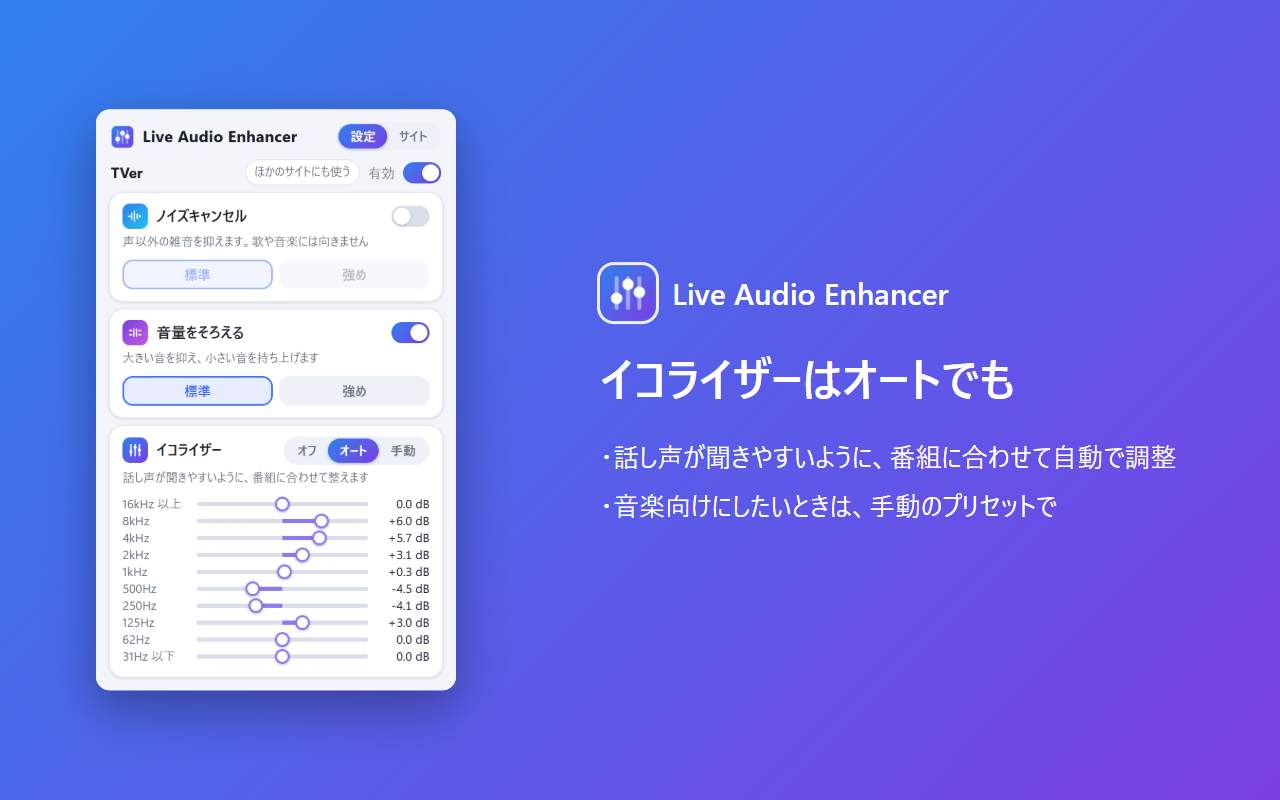
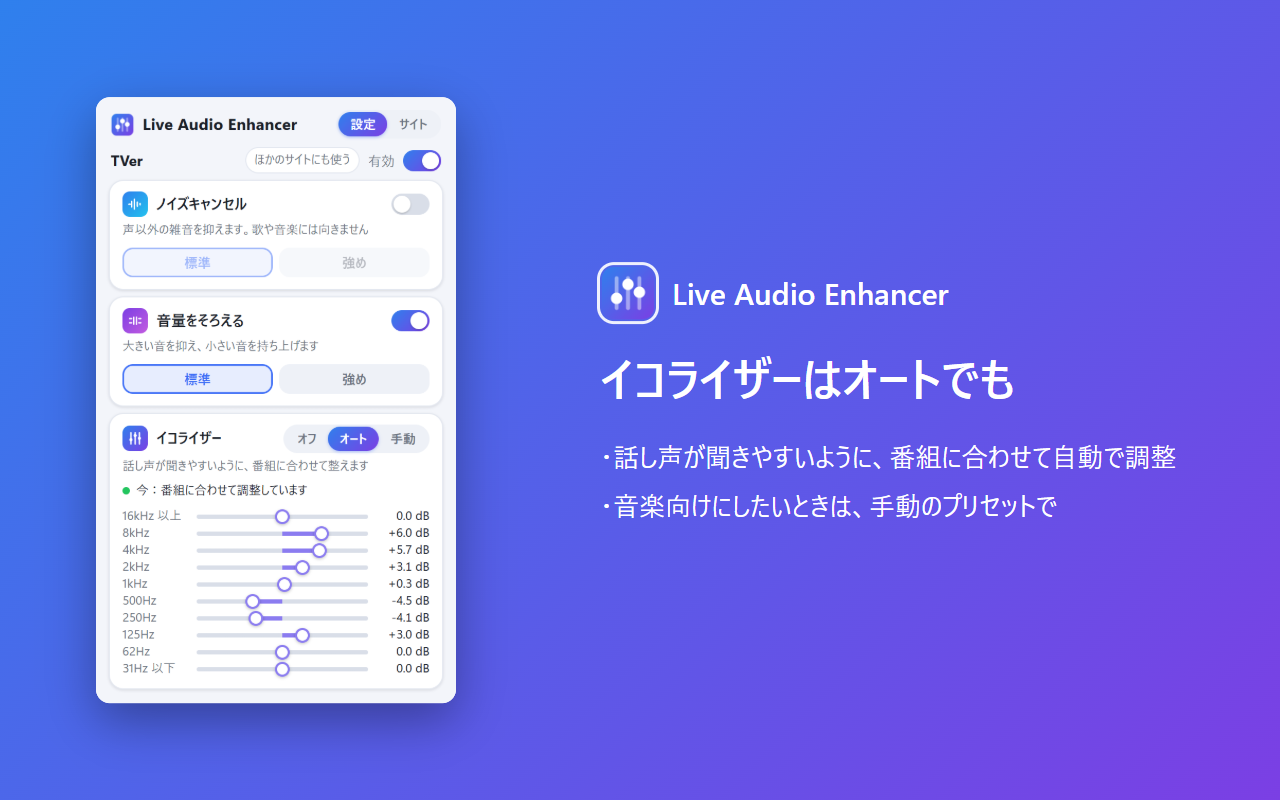
イコライザーのオートの状態を、利用者にも表示する（v0.26.1）
オートEQ は音が 5 秒ぶんたまるまで補正しないので、表示がないと動いていないように見えた。
「今：番組の音を分析しています（数秒かかります）」「今：番組に合わせて調整しています」を、利用者にも出す。
v0.23.0 から開発中だけにしていたのは、ノイズキャンセルのオートの判定の誤りを見せないためで、そのオートはなくなった。
開発中かどうかを見分けるしくみ（management.getSelf）は使わなくなったので取り除く。

Changed region(s): [[0.0625, 0.0938, 0.375, 0.9062], [0.2812, 0.375, 0.3438, 0.4375]]

diff --git a/tools/amo-screenshots.js b/tools/amo-screenshots.js
@@ -1,7 +1,7 @@
 // ストア（AMO）に載せるスクリーンショット（1280×800）を作る。docs/amo/screenshots/ に保存する。
 // 実際のポップアップの画面（extension/popup/popup.html）を開き、左にポップアップ、右に説明を並べて撮る。
 // オートEQ の画面は、配信につないだときの補正量（Twitch の雑談で実際に出た値）を再現して撮る。
-// ここでは開発中の拡張として読み込むので、オートの状態（「今：〜」）が出る。利用者には出ないので、消してから撮る。
+// ポップアップの画面はタブで開くので、オートEQ の状態は「このタブでは使えません」になる。配信につないだときの表示に書き換えて撮る。
 //
 // 使い方:
 //   npm run amo:screenshots
@@ -62,11 +62,12 @@ try {
     await popup.reload();
     await popup.waitForSelector('.band input');
     await new Promise((r) => setTimeout(r, 1500));
-    // 利用者の画面に合わせて、オートの状態（開発中の拡張でだけ出る）を消す
-    await popup.evaluate(() => document.querySelectorAll('.status').forEach((note) => note.remove()));
     if (shot.view === 'sites') await popup.click('#tabSites');
     if (shot.autoGains) {
       await popup.evaluate((gains) => {
+        const note = document.querySelector('.auto-note');
+        note.textContent = '今：番組に合わせて調整しています';
+        note.dataset.state = 'ready';
         const inputs = [...document.querySelectorAll('.band input')];
         gains.forEach((g, i) => {
           const input = inputs.find((el) => Number(el.dataset.band) === i);

diff --git a/extension/popup/popup.html b/extension/popup/popup.html
@@ -85,7 +85,7 @@
     <p class="note off-panel">かけません。手動の設定は残しておきます</p>
     <div class="auto-panel">
       <p class="note">話し声が聞きやすいように、番組に合わせて整えます</p>
-      <p class="status auto-note" hidden></p>
+      <p class="status auto-note"></p>
     </div>
     <div class="manual-panel">
       <select id="eqPreset" aria-label="プリセット"></select>

diff --git a/docs/handoff.md b/docs/handoff.md
@@ -1,6 +1,6 @@
 # Live Audio Enhancer（ライブ配信の音声エフェクト拡張）引き継ぎメモ
 
-最終更新：2026-11-16（拡張 v0.26.0）
+最終更新：2026-11-16（拡張 v0.26.1）
 
 拡張の名前は「Live Audio Enhancer」（v0.21.0から。それまでは「Audio FX」）。リポジトリのフォルダ名やログの`[audio-fx]`は、以前の名前のまま
 
@@ -73,6 +73,7 @@
 | 42 | ノイズキャンセルのオートをなくし、「スイッチ＋強さ（標準 / 強め）」にする | 完了（「ノイズキャンセルのオート（v0.25.0でなくした）」を参照） |
 | 43 | イコライザーに「オフ」を足し、「オフ / オート / 手動」にする（オフのあいだも手動の設定は残す） | 完了 |
 | 44 | カスタムの値を、プリセットとは別に覚えておく（プリセットを選んでも消えない） | 完了 |
+| 45 | オートEQの状態（「今：〜」）を、利用者にも出す（分析中であることが分からなかったため） | 完了 |
 
 ディレイ拡張との同時動作の確認（当初のステップ6）は、対象外になった。
 
@@ -103,7 +104,7 @@
   - イコライザー：見出しの横の切り替えで、「オフ」「オート」「手動」を選ぶ（「オフ」はv0.25.0から）
     - オフ：すべての帯域を0dBにする（音を変えない）。「かけません。手動の設定は残しておきます」とだけ出し、プリセットとスライダーは隠す。手動に戻すと、オフにする前の手動の値に戻る
       - 経緯：それまでは、オフの代わりに「フラット」を選んでいた。それだと手動で調整した値が消え、「フラット＝オフ」も分かりにくかったので、オフを足した（2026-11-16）
-    - オート：話し声が聞きやすいように、番組の音に合わせて自動で調整する（v0.23.0から話し声向けだけ。音楽向けにしたいときは手動のプリセットを使う）。「話し声が聞きやすいように、番組に合わせて整えます」という説明を出す（「今：〜」の状態は、開発中に読み込んだ拡張のときだけ出す）。補正の強さは選べない（以前の「強め」に固定）。スライダーは動かせず、自動で決めた補正量を表示する
+    - オート：話し声が聞きやすいように、番組の音に合わせて自動で調整する（v0.23.0から話し声向けだけ。音楽向けにしたいときは手動のプリセットを使う）。「話し声が聞きやすいように、番組に合わせて整えます」という説明と、「今：番組の音を分析しています（数秒かかります）」「今：番組に合わせて調整しています」の状態を出す。補正の強さは選べない（以前の「強め」に固定）。スライダーは動かせず、自動で決めた補正量を表示する
     - 手動：プリセットの選択欄とスライダーで決める。プリセットは手動の出発点で、選ぶとその値がスライダーに入り、スライダーを動かすとカスタムになる。「フラットに戻す」は手動のときだけ出す
       - カスタムの値は、プリセットとは別に覚えておく（設定の`customGains`。v0.26.0から）。プリセットを選んでも消えず、選択欄で「カスタム」を選ぶと戻る。それまでは、プリセットを選ぶとカスタムの値が上書きされて消えていた
       - 「フラットに戻す」をカスタムのときに押すと、カスタムの値もフラットにする。プリセットのときに押しても、カスタムの値は残す
@@ -111,12 +112,11 @@
     - オートから手動に戻すと、オートにする前の手動のEQ（カスタムかプリセット）に戻る
     - 10バンドのゲインは±12dB。画面では高音が上
     - 経緯：v0.13.0では、オートを「EQの見出しの下のスイッチ」にしていた。プリセットの選択欄と別の行に並ぶので、オートとプリセットが重なって効くように見えて分かりにくく、2026-11-11に切り替えにした
-- ポップアップの高さは、利用者の画面で最大567px（EQが手動のとき）、開発中（オートEQの「今：〜」を出す）で最大572px（EQがオートのとき）。Chromeのポップアップは600pxまで。項目を足すときは超えないか測る（v0.24.0でサイト名の行を足したとき、EQの行の高さを17pxから16pxに、カードの間を8pxから6pxに詰めた。v0.25.0でノイズキャンセルの「今：〜」がなくなり、余裕が増えた）
-- **オートの状態の表示**（v0.23.0から）：オートEQの「今：〜」は、開発中に読み込んだ拡張（Chromeの「パッケージ化されていない拡張機能」、Firefoxの一時的なアドオン）のときだけ出す
-  - 理由：判定の確かめには役に立つが、利用者には判定の誤りがそのまま見えてしまう（2026-11-13に決めた）
-  - 見分け方：`management.getSelf()`の`installType`が`development`か。managementの権限なしで使える（ChromeとFirefoxで確かめた）。使えないときは利用者向けとみなす
-  - オートEQの補正量は、スライダーに出すので、利用者向けのときも問い合わせる
-  - ストア用のスクリーンショット（`npm run amo:screenshots`）は開発中の拡張として撮るので、「今：〜」を消してから撮る
+- ポップアップの高さは、最大572px（EQがオートのとき）。Chromeのポップアップは600pxまで。項目を足すときは超えないか測る（v0.24.0でサイト名の行を足したとき、EQの行の高さを17pxから16pxに、カードの間を8pxから6pxに詰めた。v0.25.0でノイズキャンセルの「今：〜」がなくなり、余裕が増えた）
+- **オートEQの状態の表示**：「今：〜」は利用者にも出す（v0.26.1から）
+  - 理由：オートEQは音が5秒ぶんたまるまで補正しない（スライダーは0dBのまま）。表示がないと、利用者には動いていないように見える（2026-11-16に開発者の指摘）
+  - 経緯：v0.23.0〜v0.26.0は、開発中に読み込んだ拡張（`management.getSelf()`の`installType`が`development`）のときだけ出していた。ノイズキャンセルのオートの判定の誤りを利用者に見せないためだったが、そのオートはv0.25.0でなくなり、オートEQの表示（分析中・調整中・未接続）は誤りを見せるものではないので、全員に出すことにした
+  - ストア用のスクリーンショット（`npm run amo:screenshots`）は、ポップアップの画面をタブで開くので「このタブでは使えません」になる。配信につないだときの表示（「今：番組に合わせて調整しています」）に書き換えて撮る
 - 見た目は「ポップアップのデザイン」を参照
 - 自動再生でページを一度もクリックしていないときは、クリックした時点でエフェクトがかかる
 
@@ -904,7 +904,7 @@ Chromeウェブストアの音声系の拡張を調べた。主な38件は、パ
 - **カード**：機能ごと（ノイズキャンセル、音量をそろえる、イコライザー）に、白い角丸のカードにまとめる。背景は薄い灰色。幅は340px
 - **見出し**：14pxの太字。左に機能ごとの色付きのアイコン（ノイズキャンセルは青から水色、音量をそろえるは紫からピンク、イコライザーは拡張のアイコンと同じ青から紫）。右に、その機能の切り替え（ノイズキャンセルと音量をそろえるはスイッチ、イコライザーはオート / 手動）を置く
 - **色**：拡張のアイコンと同じ青から紫のグラデーションを、選んでいる切り替えとスイッチに使う。強さ（標準 / 強め）は、選んでいる方を青い枠と薄い青で示す
-- **オートEQの「今：〜」**（開発中だけ）：左の点の色で状態を示す（調整しているときは緑、分析中や未接続は灰色）。`popup.js`が`data-state`に状態を入れる
+- **オートEQの「今：〜」**：左の点の色で状態を示す（調整しているときは緑、分析中や未接続は灰色）。`popup.js`が`data-state`に状態を入れる
 - **スライダー**：0dBを中心に、上げた分・下げた分だけ色を伸ばす（`popup.js`の`paintFill`が`--a`と`--b`を決める）。オートのあいだは、動かせないことを示すため色を紫にする
 - **ダークモード**：OSの設定に合わせて、`popup.css`の先頭の色の定義を上書きする
 - フッターと「ダブルクリックで0dB」の説明の行はなくした。ダブルクリックの説明は、スライダーにマウスを乗せたときに出す。「フラットに戻す」はアイコンのボタンにした
